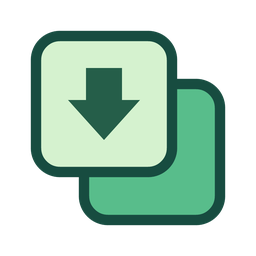
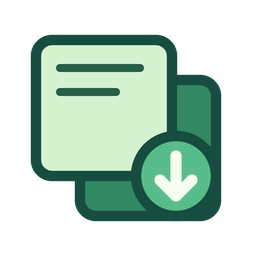
B02: clarify layer order with paper and direction badges
Replace ambiguous overlapping flat blocks with outlined sheets and distinct up/down controls.

diff --git a/Beta/Vorschau.html b/Beta/Vorschau.html
@@ -1,4 +1,4 @@
 <!doctype html><html lang="de"><meta charset="utf-8"><meta name="viewport" content="width=device-width,initial-scale=1"><title>Blattwerk — Beta-Icons</title><style>
 *{box-sizing:border-box}body{margin:0;background:#f5f4eb;color:#153e32;font:15px/1.45 system-ui,sans-serif}main{margin:auto;max-width:1260px;padding:32px clamp(19px,5vw,74px) 70px}.over,.index,small,footer,.bar label{font:600 11px/1.5 ui-monospace,monospace;letter-spacing:.09em;text-transform:uppercase}header{border-top:3px solid #234e3b;border-bottom:1px solid #adb5a4;padding:14px 0 26px}.over,footer,.bar{display:flex;align-items:center;justify-content:space-between;gap:12px}.hero{display:flex;justify-content:space-between;align-items:center;gap:24px;margin-top:32px}h1{font:normal clamp(54px,8vw,104px)/.96 Georgia,serif;letter-spacing:-.065em;margin:5px 0 16px}p{margin:0;color:#4f6455}.sample{display:flex;align-items:center;justify-content:center;gap:3px;background:#dce8cf;padding:12px 18px;border-radius:16px;transform:rotate(-3deg)}.sample img{width:clamp(42px,6vw,86px);height:auto}.bar{justify-content:flex-start;flex-wrap:wrap;margin:22px 0 30px}.bar button{border:1px solid #a5b5a4;background:transparent;border-radius:30px;padding:7px 14px;color:inherit;font:inherit;cursor:pointer}.bar button[aria-pressed=true]{background:#204d3a;color:#fff;border-color:#204d3a}h2{font:normal 30px Georgia,serif;margin:0;letter-spacing:-.03em}.sectionhead{display:flex;align-items:center;gap:13px;margin:34px 0 14px}.index{background:#dce7d0;padding:4px 8px;border-radius:5px}.total{margin-left:auto;color:#536855}.grid{display:grid;grid-template-columns:repeat(auto-fill,minmax(148px,1fr));gap:9px}.tile{background:#fffef8;border:1px solid #d4d9ca;border-radius:10px;overflow:hidden}.well{height:92px;display:flex;align-items:center;justify-content:center;gap:7px}.well img{width:38px;height:38px}.well img:only-child{width:53px;height:53px}.well .white{background:#284438;border-radius:7px;padding:3px}.caption{border-top:1px solid #e4e7db;padding:8px 10px;font-size:13px;font-weight:580}footer{border-top:1px solid #aab7a3;margin-top:42px;padding-top:13px}.total{font-size:10px}.banner{margin:22px 0 0;border-left:4px solid #b4462f;background:#f7e6df;padding:12px 16px;border-radius:0 10px 10px 0;font-size:14px;line-height:1.5}.banner:empty{display:none;margin:0}.banner b{letter-spacing:.04em;text-transform:uppercase;font:700 11px/1.5 ui-monospace,monospace}@media(max-width:600px){.sample img:not(:first-child){display:none}.sample{padding:10px}.grid{grid-template-columns:repeat(2,minmax(0,1fr))}.well{gap:3px}.well img{width:32px;height:32px}.bar{gap:5px}.bar button{font-size:13px}.total{display:none}} </style>
 <main><header><div class="over"><span>BW &nbsp; / &nbsp; Digitales Schreibatelier</span><span>Beta</span></div><div class="hero"><div><h1>Blattwerk&nbsp;Beta.</h1><p>Neue Icons in Arbeit — noch nicht freigegeben</p></div><div class="sample" id="sample" aria-hidden="true"></div></div></header><div class="banner" id="banner"><b>Beta</b> — diese Motive sind noch nicht freigegeben und dürfen nicht in <code>Normal/</code> auftauchen. Übernahme nur auf ausdrückliche Anweisung (siehe <code>AGENTS.md</code>).</div><div class="bar" id="bar"><label>Ansicht</label></div><div id="catalog"></div><footer><span>15 Motive &nbsp; / &nbsp; 15 Varianten</span><span>Blattwerk · Beta</span></footer></main>
[2 lines of base64/hex data omitted]

diff --git a/generate.py b/generate.py
@@ -170,10 +170,16 @@ def bicon(k):
                 +p('M9 12h36q4 0 4 4v39h-7V19H9Z','B')
                 +line('M12 15h12','H',2))
     if k in ('ebene-nach-vorne','ebene-nach-hinten'):
-        hell=r(9,9,34,34,6,'L'); gruen=r(21,21,34,34,6,'B')
-        auf=p('M38 29.5 47 39.5h-4.5v8h-9v-8H29Z','H','none')    # Pfeil im vorderen Grün
-        ab=p('M26 35 35 25h-4.5v-8h-9v8H17Z','D','none')          # Pfeil im vorderen Hell
-        return hell+gruen+auf if k=='ebene-nach-vorne' else gruen+hell+ab
+        hinten = r(9,10,34,34,4,'M')+line('M15 16h12','H',2)
+        vorne = r(20,20,34,34,4,'L')+line('M26 27h20m-20 6h14','D',2)
+        badge = c(44,44,10,'B')
+        arrow = (line('M44 49V39m-4 4 4-4 4 4','H',2.8) if k=='ebene-nach-vorne'
+                 else line('M44 39v10m-4-4 4 4 4-4','H',2.8))
+        if k=='ebene-nach-hinten':
+            hinten = r(20,20,34,34,4,'M')+line('M26 26h12','H',2)
+            vorne = r(9,10,34,34,4,'L')+line('M15 17h20m-20 6h14','D',2)
+            badge = c(44,44,10,'B')
+        return hinten+vorne+badge+arrow
     if k=='umwandeln' or k.startswith('umwandeln-in-'):
         quelle=r(6,9,25,33,4,'L')+line('M11 20c2.5-5 5 3 7.5-1s5 3 7.5-1','D',2.4)+line('M11 31c2.5-5 5 3 7.5-1s4.5 2.5 6.5 0','D',2.4)
         ziel=r(33,9,25,33,4,'B')
